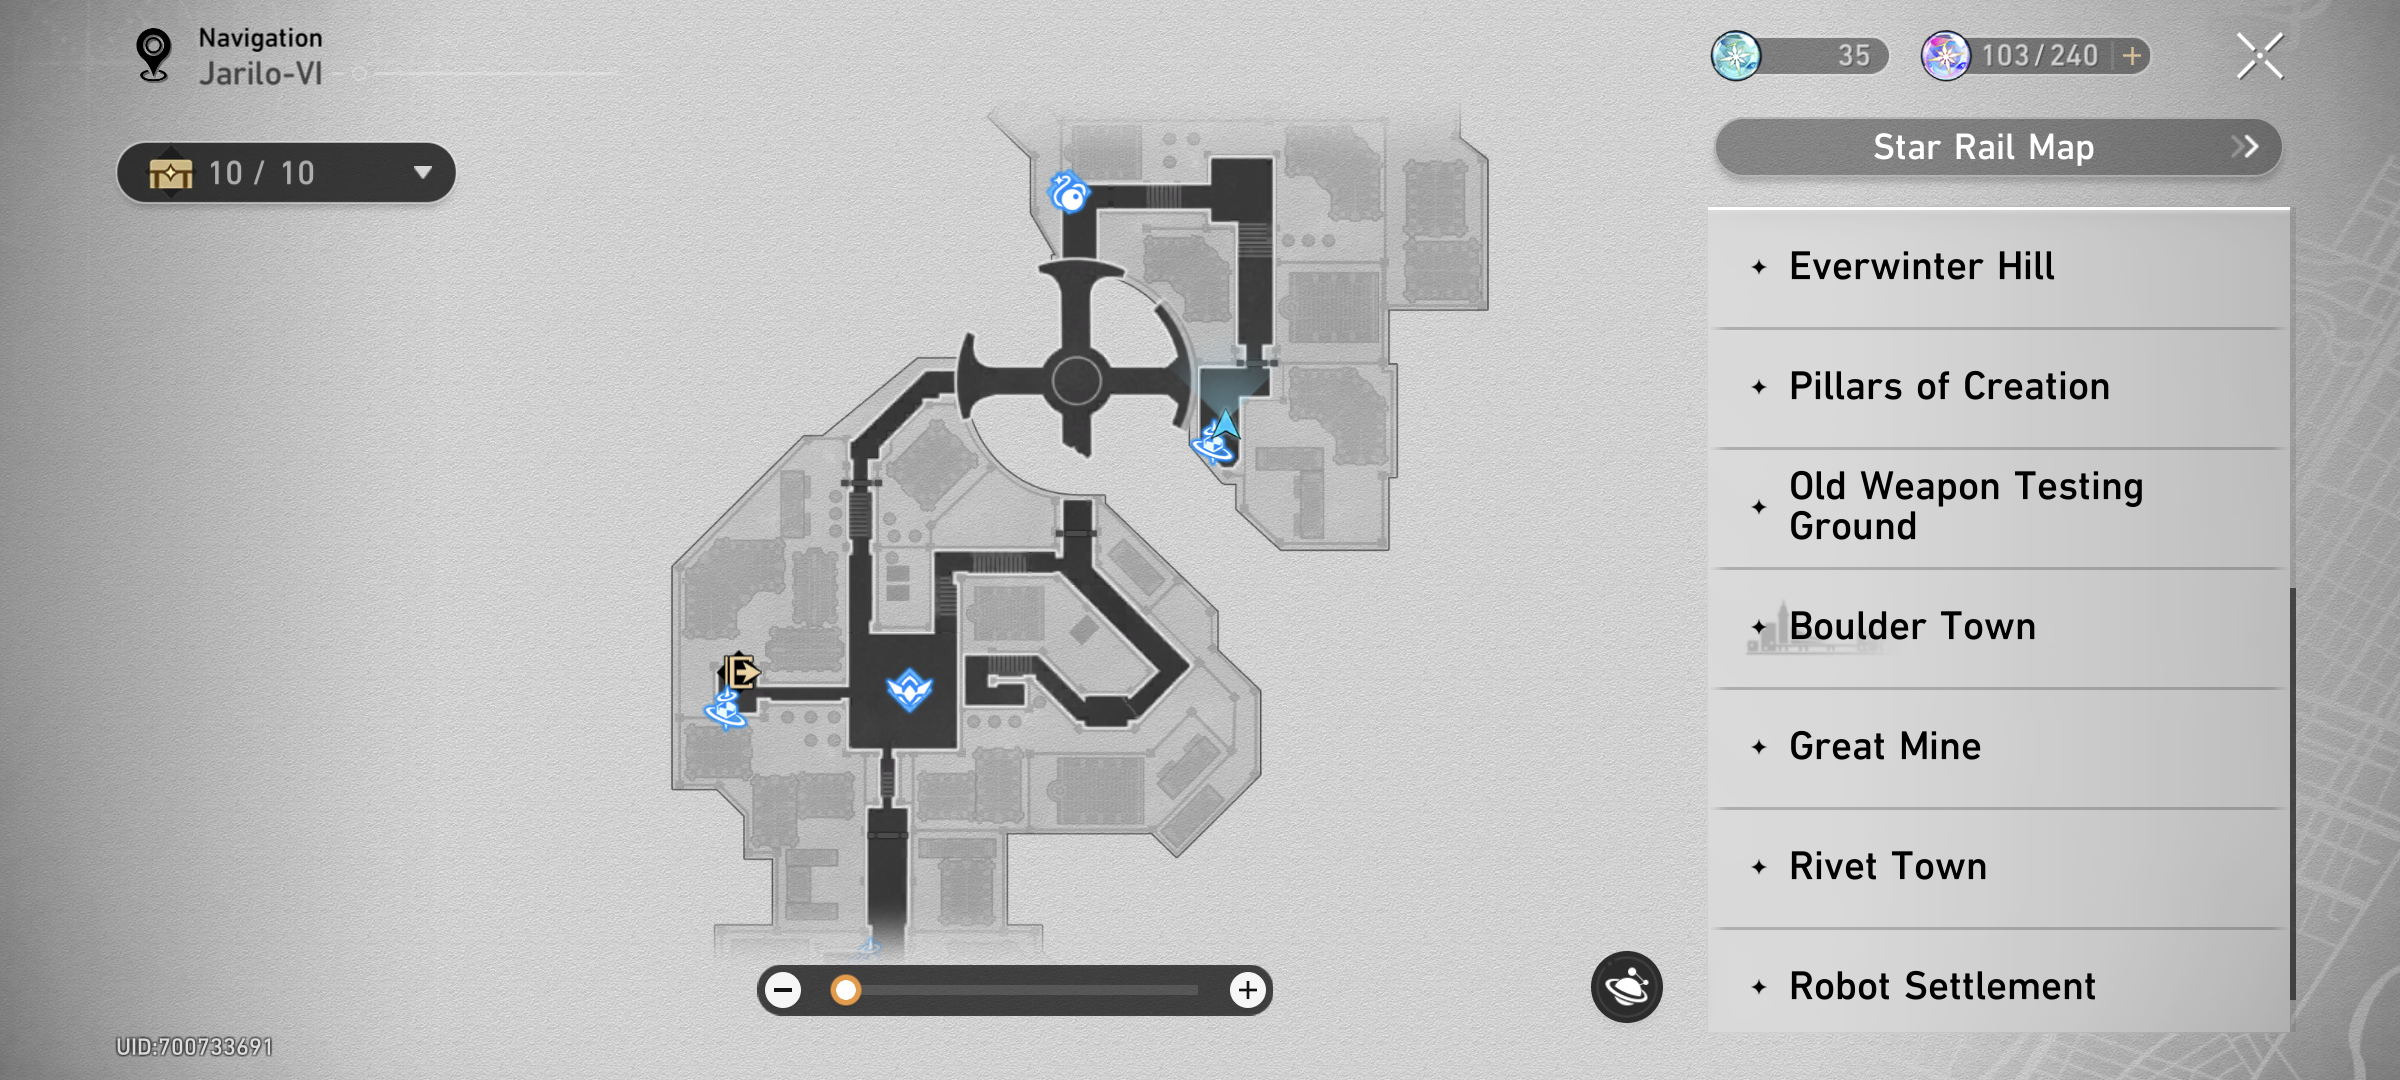
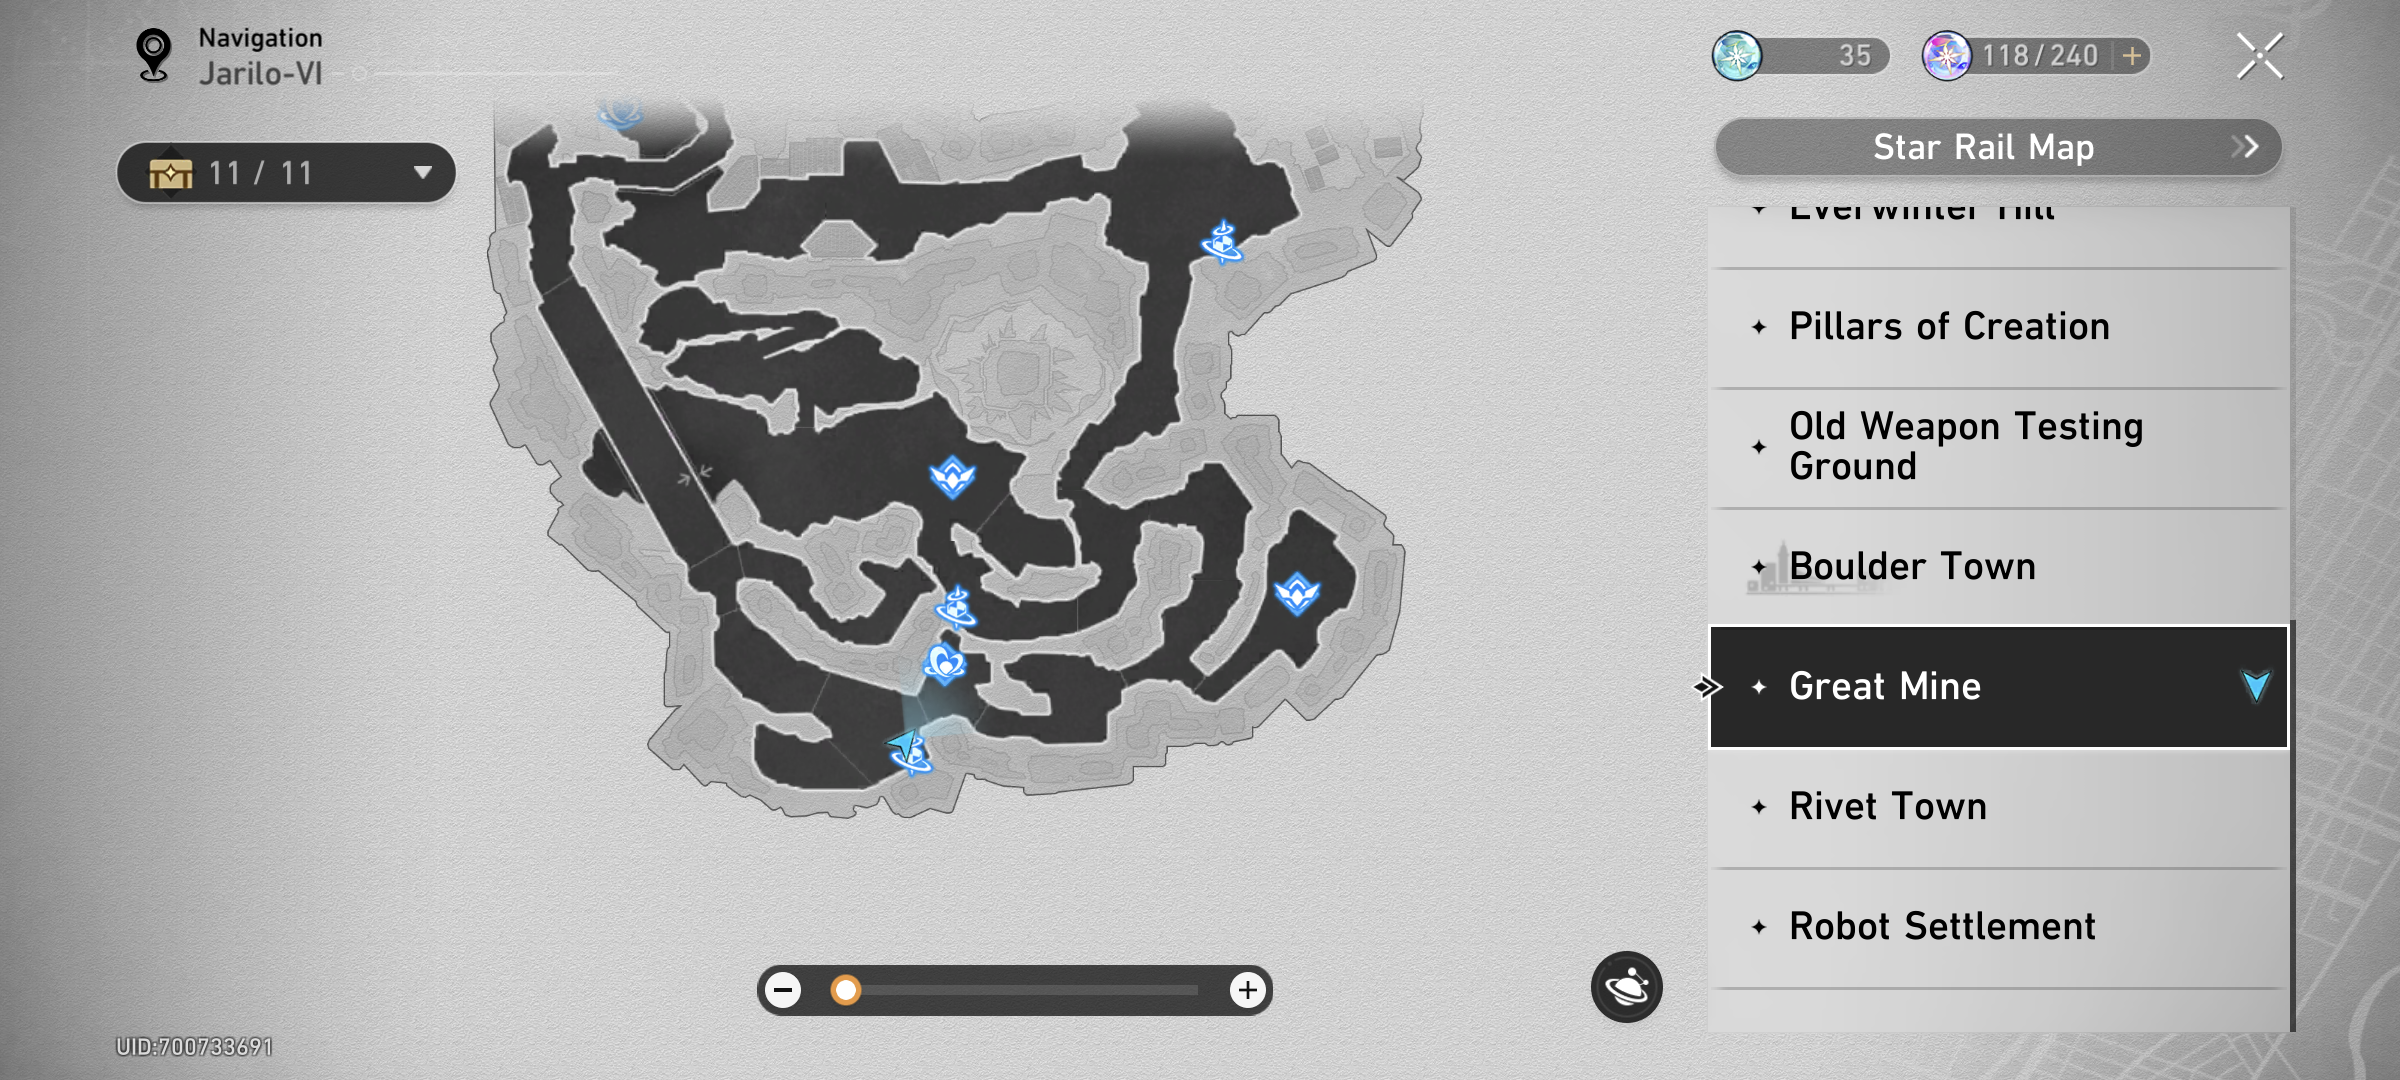
work in progress

diff --git a/src/worlds/jarilo_vi.py b/src/worlds/jarilo_vi.py
@@ -6,6 +6,7 @@ class Outlying_Snow_Plains:
     def __init__(self, bot):
         self.bot = bot
     async def teleport(self):
+        logger.info('Teleport')
         logger.info('---')
         logger.info("--- Map: Outlying Snow Plains")
         logger.info('---')
@@ -52,8 +53,10 @@ class Backwater_Pass:
     def __init__(self, bot):
         self.bot = bot
     async def teleport(self):
+        logger.info('Teleport')
         logger.info('---')
         logger.info("--- Map: Backwater Pass")
+        logger.info('---')
         await self.bot.switch_map(y_list=629/1080, world='jarilo_vi', scroll_down=False,
                                     x=829/2400, y=273/1080, corner='botright', move_x=0, move_y=0) # Transport Hub
         await self.bot.movepi(1.5, 4900)
@@ -138,6 +141,7 @@ class Silvermane_Guard:
     def __init__(self, bot):
         self.bot = bot
     async def teleport(self, tp_restore=False):
+        logger.info('Teleport')
         logger.info('---')
         logger.info("--- Map: Silvermane Guard Restricted Zone")
         logger.info('---')
@@ -175,6 +179,7 @@ class Corridor:
     def __init__(self, bot):
         self.bot = bot
     async def teleport(self):
+        logger.info('Teleport')
         logger.info('---')
         logger.info("--- Map: Corridor of Fading Echoes")
         logger.info('---')
@@ -317,23 +322,149 @@ class Everwinter_Hill:
     def __init__(self, bot):
         self.bot = bot
     async def teleport(self):
+        logger.info('Teleport')
         logger.info('---')
         logger.info("--- Map: Everwinter Hill")
         logger.info('---')
+        await self.bot.switch_map(y_list=984/1080, world='jarilo_vi', scroll_down=False,
+                                    x=1297/2400, y=394/1080, corner='botleft', move_x=0, move_y=3) # Deck of Creation
+        await self.bot.movepi(0.2, 6000)
+        await self.bot.movepi(0.1, 3100)
+        await self.bot.attack() # +2 TP
+        await self.bot.movepi(1.5, 5000)
+        await self.bot.movepi(1.9, 1100)
+        await self.bot.attack_technique(2, wait=False)
+        await self.bot.movepi(1.9, 1000)
+        await self.bot.movepi(0.0, 1500)
+        await self.bot.attack_technique(4)
+    async def path_1(self):
+        logger_set_path(1)
+        await self.bot.use_teleporter(x=775/2400, y=653/1080, corner='botleft', move_x=0, move_y=3, confirm=True) # Ancient Battlefield: Snow Plains
+        await self.bot.movepi(0.48, 3300)
+        await self.bot.movepi(1.0, 200)
+        await self.bot.attack()
+        await self.bot.movepi(0.5, 3000)
+        await self.bot.movepi(0.9, 4000)
+        await self.bot.movepi(1.1, 3800)
+        await self.bot.attack_technique(2, wait=False)
+        await self.bot.movepi(0.95, 3000)
+        await self.bot.movepi(0.6, 700)
+        await self.bot.movepi(0.95, 1100)
+        await self.bot.attack_technique(2)
+
 
 class Great_Mine:
     def __init__(self, bot):
         self.bot = bot
     async def teleport(self):
+        logger.info('Teleport')
         logger.info('---')
         logger.info("--- Map: Great Mine")
         logger.info('---')
+        await self.bot.switch_map(y_list=687/1080, world='jarilo_vi', scroll_down=True,
+                                    x=665/2400, y=435/1080, corner='topleft', move_x=0, move_y=0, confirm=True) # Entrance
+        await self.bot.movepi(0.2, 1500)
+        await self.bot.attack() # +2 TP
+    async def path_1(self): # roamer
+        logger_set_path(1)
+        await self.bot.use_teleporter(x=1220/2400, y=328/1080, corner='topright', move_x=0, move_y=3) # Vagrant Shelter
+        await self.bot.movepi(0.9, 2000)
+        await self.bot.movepi(1.2, 900)
+        await self.bot.attack() # items
+        await self.bot.movepi(1.1, 500)
+        await self.bot.movepi(0.9, 1000)
+        await self.bot.movepi(1.0, 1000)
+        await self.bot.movepi(1.2, 1700)
+        await self.bot.movepi(1.07, 4000)
+        await self.bot.attack() # items
+        await self.bot.movepi(0.5, 900)
+        await self.bot.movepi(1.0, 2600)
+        await self.bot.movepi(1.45, 2500)
+        await self.bot.movepi(1.8, 1000)
+        await self.bot.attack_technique(8)
+    async def path_2(self):
+        logger_set_path(2)
+        await self.bot.use_teleporter(x=956/2400, y=610/1080, corner='botright', move_x=0, move_y=0, confirm=True) # Overlook
+        await self.bot.movepi(1.8, 2000)
+        await self.bot.movepi(0.1, 4700)
+        await self.bot.movepi(0.2, 1000)
+        await self.bot.attack_technique(3, wait=False)
+    async def path_3(self): # roamer
+        logger_set_path(3)
+        await self.bot.use_teleporter(x=1296/2400, y=600/1080, corner='botright', move_x=0, move_y=0) # Shape of Scorch
+        await self.bot.movepi(1.23, 1700)
+        await self.bot.attack() # items
+        await self.bot.movepi(1.23, 2000)
+        await self.bot.attack() # +2 TP
+        await self.bot.movepi(1.15, 1200)
+        await self.bot.movepi(0.75, 1800)
+        await self.bot.movepi(0.33, 3800)
+        await self.bot.attack() # items
+        await self.bot.movepi(1.33, 4700)
+        await self.bot.movepi(1.1, 1500)
+        await self.bot.movepi(1.2, 700)
+        await self.bot.movepi(1.0, 400)
+        await self.bot.attack_technique(2, wait=False)
+        await self.bot.movepi(1.1, 500)
+        await self.bot.attack_technique(2, wait=False)
+        await self.bot.movepi(1.3, 500)
+        await self.bot.attack_technique(2, wait=False)
+        await self.bot.movepi(1.0, 500)
+        await self.bot.attack_technique(4)
+    async def path_x(self): # roamer
+        logger_set_path(4)
+        # await self.bot.use_teleporter(x=912/2400, y=755/1080, corner='botright', move_x=0, move_y=0) # Main Mine Shaft
+        # await self.bot.movepi(1.02, 2700)
+        # await self.bot.attack() # +2 TP
+        # await self.bot.movepi(1.1, 4000)
+        # await self.bot.movepi(0.9, 700)
+        # await self.bot.attack_technique(1, wait=False)
+        # await self.bot.movepi(1.5, 500)
+        # await self.bot.attack_technique(2, wait=False)
+        await self.bot.position_fixing(1.25, 3000)
+        
+    #     logger('### group 5 ###')
+    #     await self.bot.use_teleporter(912/2400, 758/1080) 
+    #     await self.bot.attack()
+    #     await self.bot.wait_for_onmap()
+    #     logger('### group 6 ###')
+    #     await self.bot.movepi(0.9, 3500)
+    #     await self.bot.attack()
+    #     await self.bot.wait_for_onmap()
+    #     logger('### group 7 ###')
+    #     await self.bot.movepi(0.75, 1500)
+    #     await self.bot.movepi(0.3, 1500)
+    #     await self.bot.movepi(0.00, 2500)
+    #     await self.bot.movepi(1.9, 2000)
+    #     await self.bot.movepi(0.25, 2300)
+    #     await self.bot.movepi(0.5, 1500)
+    #     await self.bot.attack()
+    #     await self.bot.wait_for_onmap()
+    #     logger('### group 8 ###')
+    #     await self.bot.use_teleporter(950/2400, 482/1080) # Stagnant Shadow
+    #     await self.bot.movepi(0.8, 2300)
+    #     await self.bot.movepi(1.0, 2000)
+    #     await self.bot.movepi(1.12, 3300)
+    #     await self.bot.attack()
+    #     await self.bot.wait_for_onmap()
+    #     logger('### group 8, part 2 ###') # roamer, can be finetuned
+    #     await self.bot.movepi(0.53, 1500)
+    #     await self.bot.attack()
+    #     await self.bot.wait_for_onmap()
+    #     logger('### group 9 ###') # roamer
+    #     await self.bot.movepi(0.50, 2800)
+    #     await self.bot.movepi(0.2, 1500)
+    #     await self.bot.movepi(0.75, 500)
+    #     await self.bot.attack()
+    #     await self.bot.wait_for_onmap()
+
 
 
 class Rivet_Town:
     def __init__(self, bot):
         self.bot = bot
     async def teleport(self):
+        logger.info('Teleport')
         logger.info('---')
         logger.info("--- Map: Rivet Town")
         logger.info('---')
@@ -392,6 +523,7 @@ class Robot_Settlement:
     def __init__(self, bot):
         self.bot = bot
     async def teleport(self):
+        logger.info('Teleport')
         logger.info('---')
         logger.info("--- Map: Robot Settlement")
         logger.info('---')
@@ -457,103 +589,4 @@ class Robot_Settlement:
 #     await self.bot.attack()
 #     await self.bot.wait_for_onmap()
 
-
-# async def farm_great_mine(self):
-#     logger('farm: Great Mine')
-#     await self.bot.switch_map(687/1080, scroll_down=True)
-#     logger('### group 1 ###')
-#     await self.bot.use_teleporter(955/2400, 818/1080, open_map=False, confirm=True) # Overlook
-#     await self.bot.movepi(1.8, 2000)
-#     await self.bot.movepi(0.1, 4700)
-#     await self.bot.movepi(0.3, 1000)
-#     await self.bot.attack()
-#     await self.bot.wait_for_onmap()
-#     logger('### group 2 ###')
-#     await self.bot.movepi(0.5, 3000)
-#     await self.bot.movepi(0.28, 700)
-#     await self.bot.attack()
-#     await self.bot.wait_for_onmap()
-#     logger('### group 3 ###')
-#     await self.bot.use_teleporter(944/2400, 675/1080, confirm=True) # Bud of Treasures
-#     await self.bot.movepi(1.5, 500)
-#     await self.bot.movepi(1.75, 2000)
-#     await self.bot.movepi(1.9, 2500)
-#     await self.bot.attack()
-#     await self.bot.wait_for_onmap()
-#     logger('### group 4 ###')
-#     await self.bot.movepi(0.0, 1000)
-#     await self.bot.movepi(0.25, 1900)
-#     await self.bot.attack()
-#     await self.bot.wait_for_onmap()
-#     logger('### group 5 ###')
-#     await self.bot.use_teleporter(912/2400, 758/1080) # Main Mine Shaft
-#     await self.bot.movepi(1.05, 2600)
-#     await self.bot.attack()
-#     await self.bot.sleep(0.5)
-#     await self.bot.movepi(1.1, 4100)
-#     await self.bot.attack()
-#     await self.bot.wait_for_onmap()
-#     logger('### group 6 ###')
-#     await self.bot.movepi(0.9, 3500)
-#     await self.bot.attack()
-#     await self.bot.wait_for_onmap()
-#     logger('### group 7 ###')
-#     await self.bot.movepi(0.75, 1500)
-#     await self.bot.movepi(0.3, 1500)
-#     await self.bot.movepi(0.00, 2500)
-#     await self.bot.movepi(1.9, 2000)
-#     await self.bot.movepi(0.25, 2300)
-#     await self.bot.movepi(0.5, 1500)
-#     await self.bot.attack()
-#     await self.bot.wait_for_onmap()
-#     logger('### group 8 ###')
-#     await self.bot.use_teleporter(950/2400, 482/1080) # Stagnant Shadow
-#     await self.bot.movepi(0.8, 2300)
-#     await self.bot.movepi(1.0, 2000)
-#     await self.bot.movepi(1.12, 3300)
-#     await self.bot.attack()
-#     await self.bot.wait_for_onmap()
-#     logger('### group 8, part 2 ###') # roamer, can be finetuned
-#     await self.bot.movepi(0.53, 1500)
-#     await self.bot.attack()
-#     await self.bot.wait_for_onmap()
-#     logger('### group 9 ###') # roamer
-#     await self.bot.movepi(0.50, 2800)
-#     await self.bot.movepi(0.2, 1500)
-#     await self.bot.movepi(0.75, 500)
-#     await self.bot.attack()
-#     await self.bot.wait_for_onmap()
-
-# async def farm_everwinter_hill(self):
-#     logger('farm: Everwinter Hill')
-#     await self.bot.switch_map(984/1080)
-#     logger('### group 1 ###')
-#     await self.bot.use_teleporter(647/2400, 761/1080, open_map=False, confirm=True) # Ancient Battlefield: Snow Plains
-#     await self.bot.movepi(0.48, 3300)
-#     await self.bot.attack()
-#     await self.bot.sleep(0.5)
-#     await self.bot.movepi(0.5, 3000)
-#     await self.bot.movepi(0.9, 4000)
-#     await self.bot.movepi(1.1, 3000)
-#     await self.bot.movepi(0.95, 900)
-#     await self.bot.attack()
-#     await self.bot.wait_for_onmap()
-#     logger('### group 2 ###')
-#     await self.bot.movepi(0.95, 600)
-#     await self.bot.movepi(1.1, 2000)
-#     await self.bot.movepi(0.8, 1800)
-#     await self.bot.movepi(0.85, 2500)
-#     await self.bot.attack()
-#     await self.bot.wait_for_onmap()
-#     logger('### group 3 ###')
-#     await self.bot.use_teleporter(1054/2400, 683/1080) # Cavern of Corrosion
-#     await self.bot.movepi(1.1, 6000)
-#     await self.bot.movepi(0.75, 700)
-#     await self.bot.attack()
-#     await self.bot.wait_for_onmap()
-#     logger('### group 4 ###')
-#     await self.bot.movepi(0.75, 1500)
-#     await self.bot.movepi(0.475, 2200)
-#     await self.bot.attack()
-#     await self.bot.wait_for_onmap()
 

diff --git a/src/main.py b/src/main.py
@@ -35,8 +35,10 @@ async def main():
     # 3/7 Jarilo-VI (19440/19440)
     # await jarilo_vi.farm_outlying_snow_plains() # (2052/2052) done2
     # await jarilo_vi.farm_backwater_pass() # (3024/3024) done1
-    await jarilo_vi.farm_corridor() # (3672/3672) done1
-    # await jarilo_vi.farm_silvermane_guard() # (TP)
+    # await jarilo_vi.farm_corridor() # (3672/3672) done1
+    # await jarilo_vi.farm_everwinter_hill() # (1404/1404) done1
+    # await jarilo_vi.silvermane_guard.teleport(tp_restore=0) # (TP)
+    await jarilo_vi.farm_great_mine() # (4536/4536)
 
     # 1/7 Xianzhou Luofu (42596/42596)
     # await the_xianzhou_luofu.farm_starskiff_haven()
@@ -61,8 +63,6 @@ async def main():
 
     ### TODO
 
-    # await jarilo_vi.farm_everwinter_hill() # (1404/1404)
-    # await jarilo_vi.farm_great_mine() #  (4536/4536)
     # await jarilo_vi.farm_rivet_town() # (2160/2160)
     # await jarilo_vi.farm_robot_settlement() # (2592/2592)
 

diff --git a/src/farmer/jarilo_vi.py b/src/farmer/jarilo_vi.py
@@ -39,12 +39,20 @@ class Jarilo_VI:
         await self.corridor.path_5()
         await self.corridor.path_6()
         await self.corridor.path_7()
-    
-    async def farm_great_mine(self):
-        pass
 
     async def farm_everwinter_hill(self):
-        pass
+        exit() # check tele
+        await self.everwinter_hill.teleport()
+        exit() # check kill all
+        await self.everwinter_hill.path_1()
+    
+    async def farm_great_mine(self):
+        # await self.great_mine.teleport()
+        # await self.corridor.path_1()
+        # await self.corridor.path_2()
+        # exit() # check kill / path
+        # await self.corridor.path_3()
+        await self.great_mine.path_x()
     
     async def farm_rivet_town(self):
         pass
